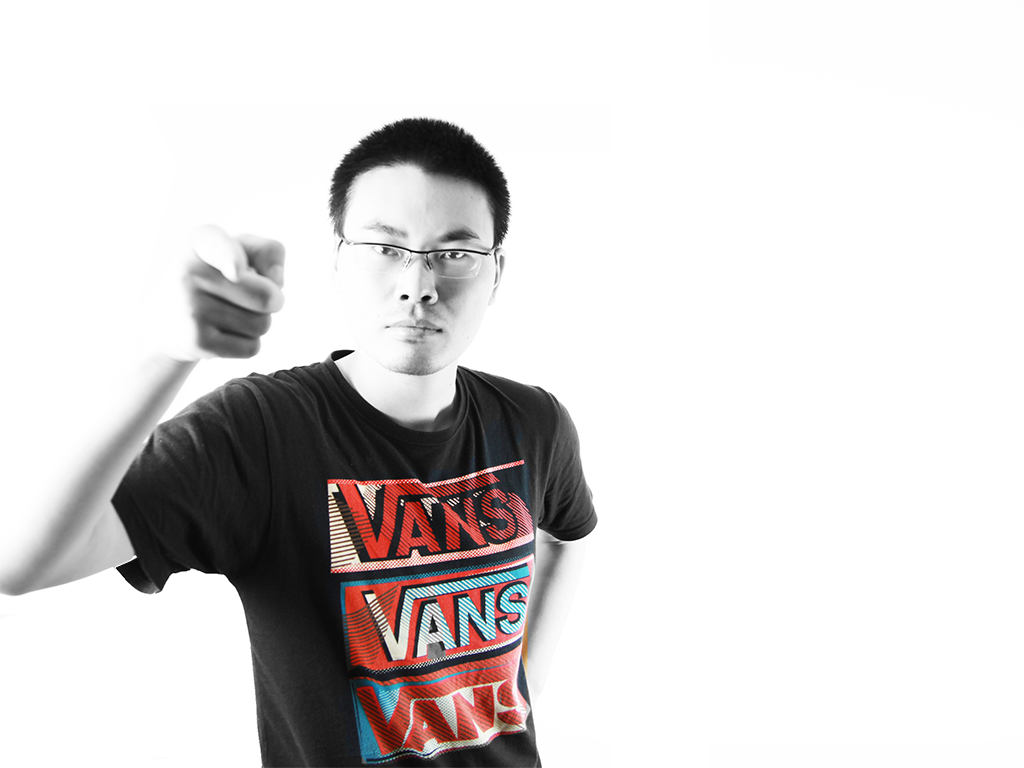
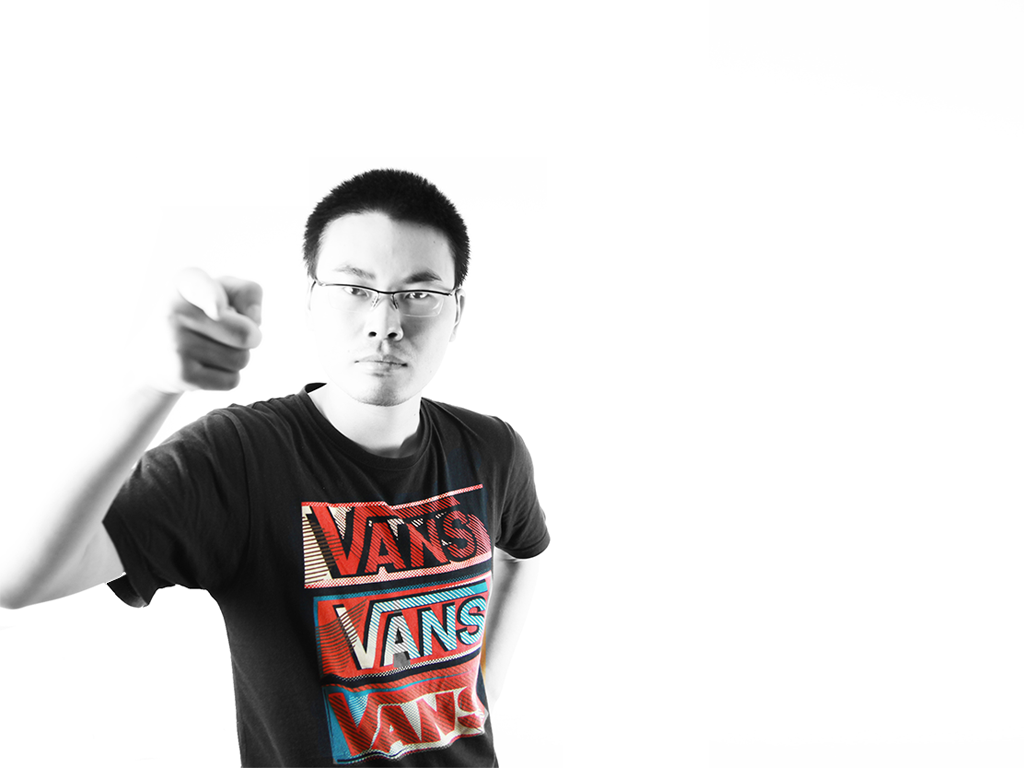
modify the images

Changed region(s): [[0.0, 0.1562, 0.5938, 1.0]]

diff --git a/index.html b/index.html
@@ -64,7 +64,7 @@
 				</div>
 				<div class="slide">
 					<div class="hero-wrap row">
-						<img class="hero-image" src="images/yangmei2.png">
+						<img class="hero-image" src="images/yangmei.png">
 						<article>
 							<div class="contact clearfix">
 								<h1 class="name">杨眉 <span class="role">QA</span></h1>
@@ -161,7 +161,7 @@
 								<img class="weibo" src="images/weibo.png">
 							</div>
 							<p class="entry-date">
-								2013年入职
+								2013年应届
 							</p>
 							<p class="description">
 								在ThoughtWorks，机会和挑战扑过来的速度比你幻想的还快。
